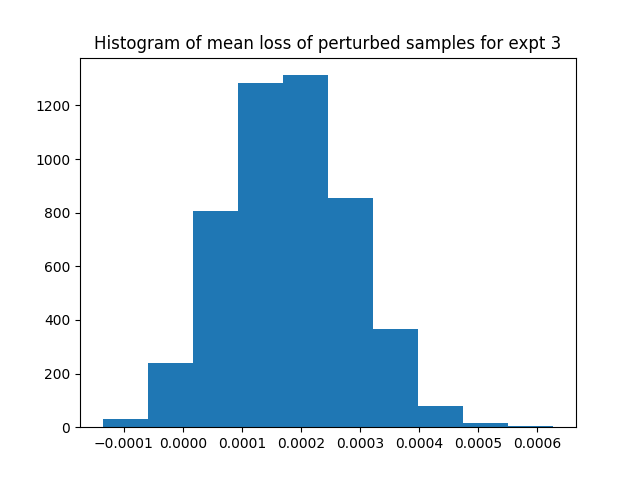
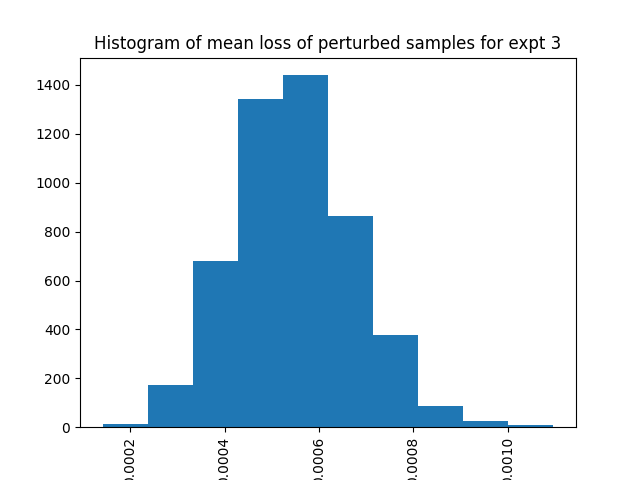
modified:   adversarial-points/perturbed-mean-entropy-hist3.png modified:   adversarial-points/perturbed-mean-entropy-hist4.png modified:   adversarial-points/perturbed-mean-entropy-qqplot3.png modified:   adversarial-points/perturbed-mean-entropy-qqplot4.png modified:   create_plots.py

diff --git a/create_plots.py b/create_plots.py
@@ -49,18 +49,18 @@ y_train, y_test = tf.one_hot(y_train, 2), tf.one_hot(y_test, 2)
 unprotected_directions = tf.cast(unprotected_directions, dtype = tf.float32)
 
 init_graph = utils.ClassifierGraph(50, 2)
-graph = cl.Classifier(init_graph, x_unprotected_train, y_train, x_unprotected_test, y_test, num_steps = 10000) # use for unfair algo
-#graph = cl.Classifier(init_graph, tf.matmul(x_unprotected_train, unprotected_directions), 
-#                        y_train, tf.matmul(x_unprotected_test, unprotected_directions), y_test, num_steps = 10000) # for fair algo
+#graph = cl.Classifier(init_graph, x_unprotected_train, y_train, x_unprotected_test, y_test, num_steps = 10000) # use for unfair algo
+graph = cl.Classifier(init_graph, tf.matmul(x_unprotected_train, unprotected_directions), 
+                        y_train, tf.matmul(x_unprotected_test, unprotected_directions), y_test, num_steps = 10000) # for fair algo
 
 
-probs = graph(x_unprotected_test)
-#probs = graph(tf.matmul(x_unprotected_test, unprotected_directions))
+#probs = graph(x_unprotected_test)
+probs = graph(tf.matmul(x_unprotected_test, unprotected_directions))
 standard_error = utils.EntropyLoss(y_test, probs)
 
 
 
-expt = 3
+expt = 4
 filename = f'adversarial-points/perturbed_test_points{expt}.npy'
 l2_filename = f'adversarial-points/l2_perturbed_test_points{expt}.npy'
 histplot = f'adversarial-points/perturbed-mean-entropy-hist{expt}.png'
@@ -77,7 +77,7 @@ def error(data):
     x_perturbed, x_l2_perturbed = tf.cast(x_perturbed, dtype = tf.float32), tf.cast(x_l2_perturbed, dtype = tf.float32)
     x_perturbed, x_l2_perturbed = tf.reshape(x_perturbed, (1, -1)), tf.reshape(x_l2_perturbed, (1, -1))
     y = tf.reshape(y, (1, -1))
-    #x_perturbed, x_l2_perturbed = tf.matmul(x_perturbed, unprotected_directions), tf.matmul(x_l2_perturbed, unprotected_directions) # for fair algo
+    x_perturbed, x_l2_perturbed = tf.matmul(x_perturbed, unprotected_directions), tf.matmul(x_l2_perturbed, unprotected_directions) # for fair algo
     return utils.EntropyLoss(y, graph(x_perturbed)) - utils.EntropyLoss(y, graph(x_l2_perturbed))
 
 perturbed_error = [error(data) for data in zip(perturbed_test_samples, l2_perturbed_test_samples, y_test)]
@@ -92,6 +92,7 @@ def perturb_mean(n = 9045):
 perturbed_means = [perturb_mean() for _ in range(5000)]
 plt.hist(perturbed_means)
 plt.title(f'Histogram of mean loss of perturbed samples for expt {expt}')
+plt.xticks(rotation = 'vertical')
 plt.savefig(histplot)
 plt.close()
 
